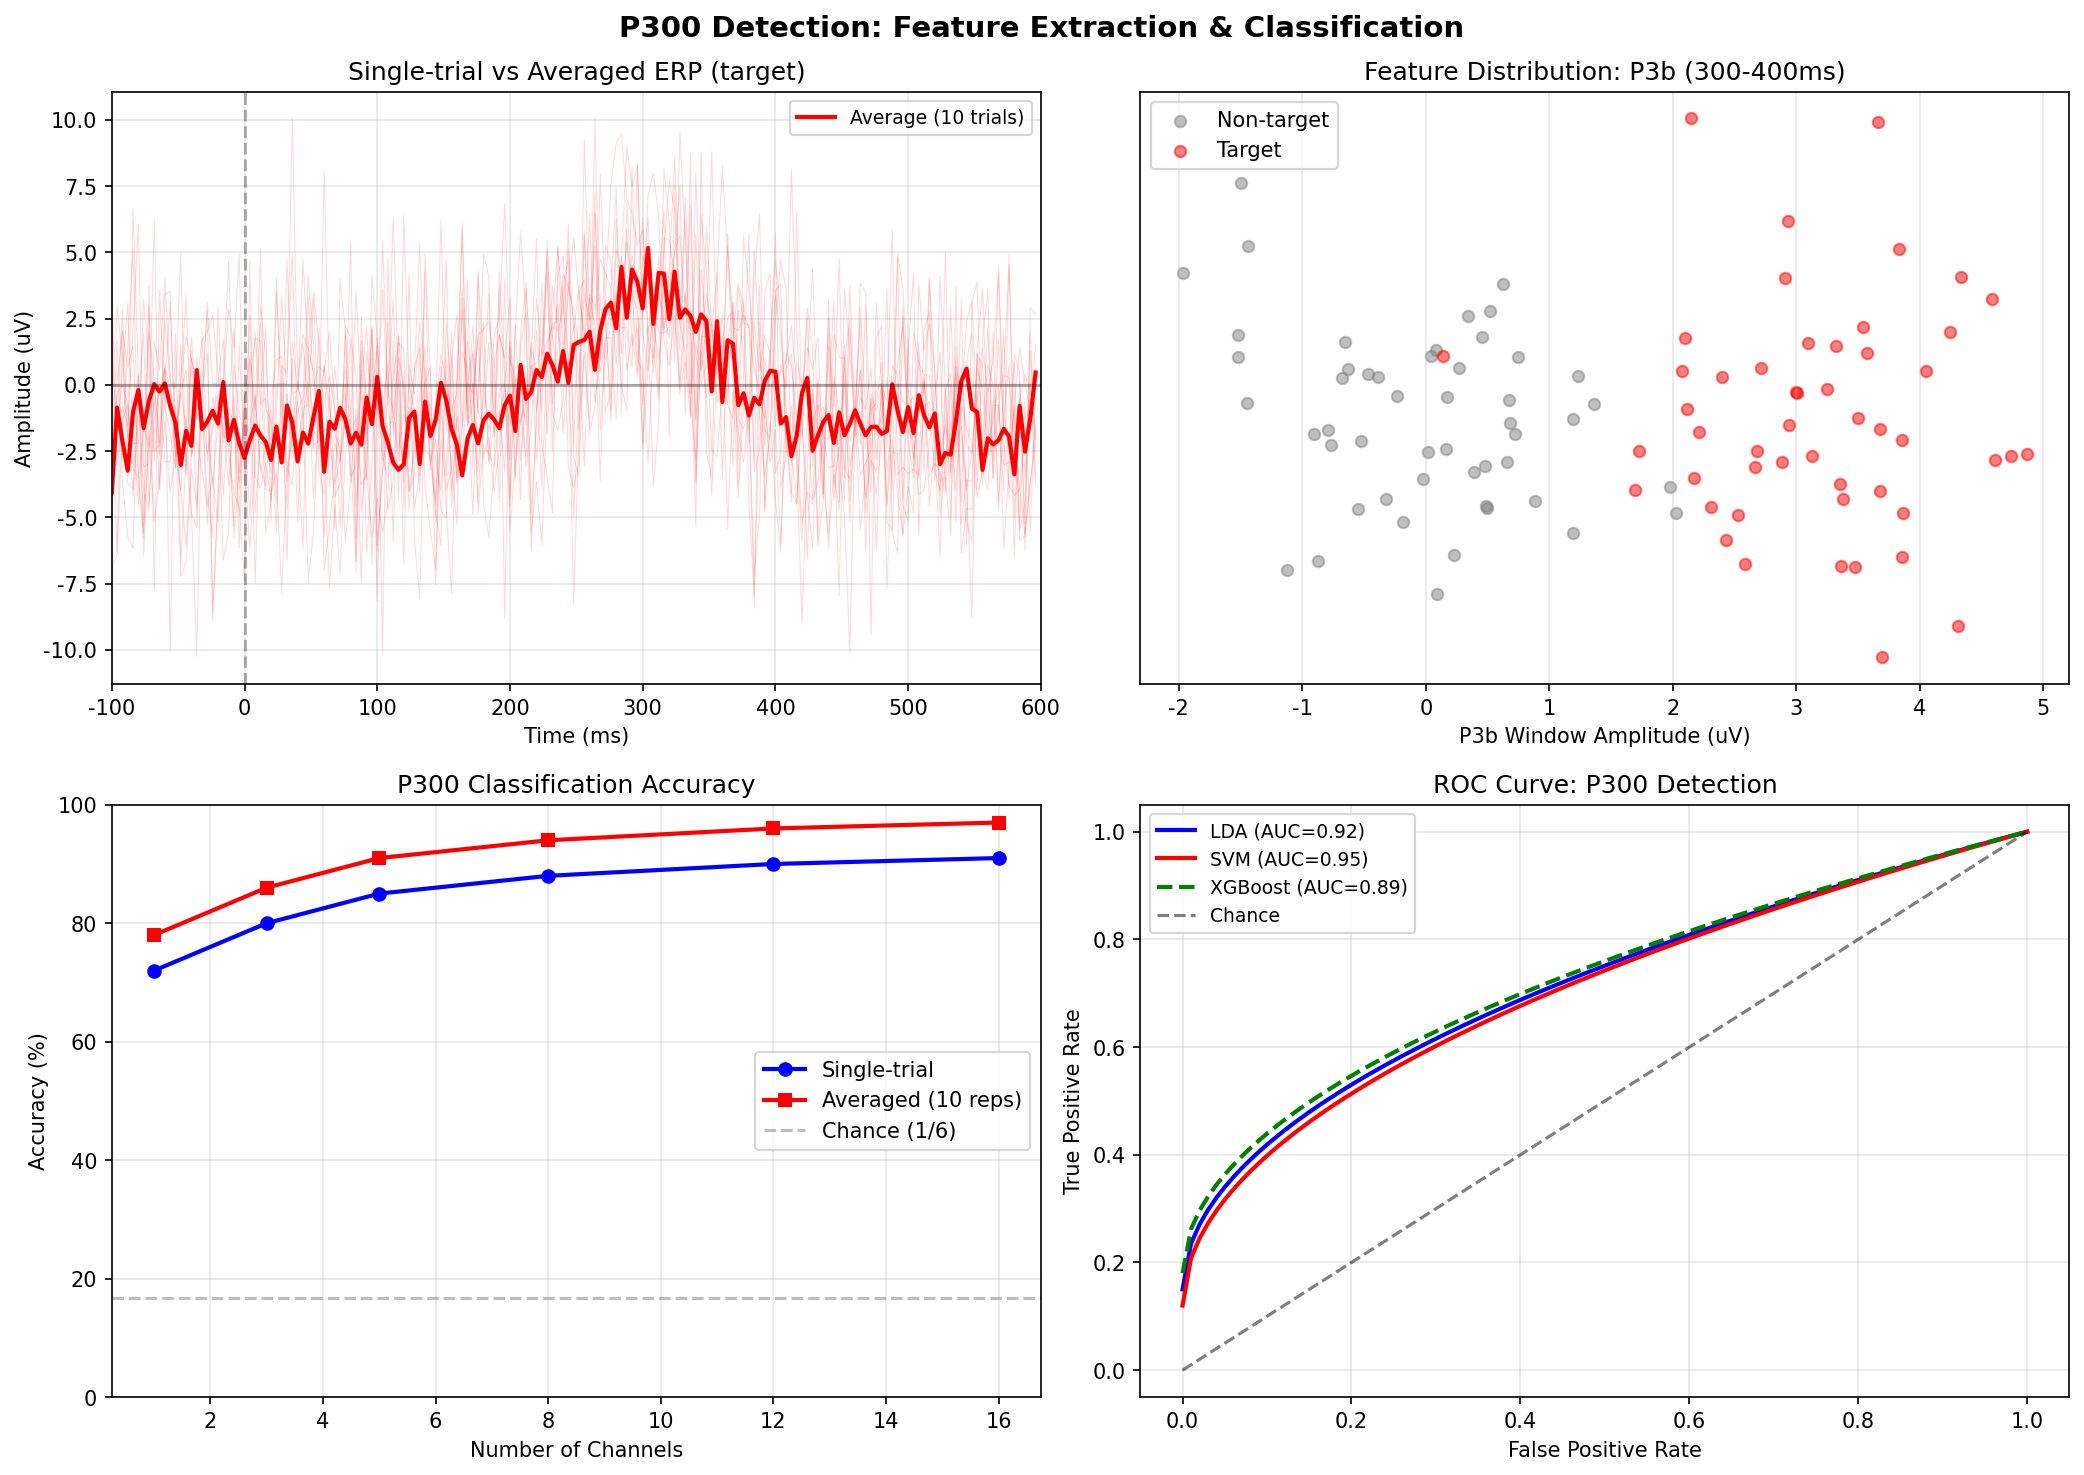
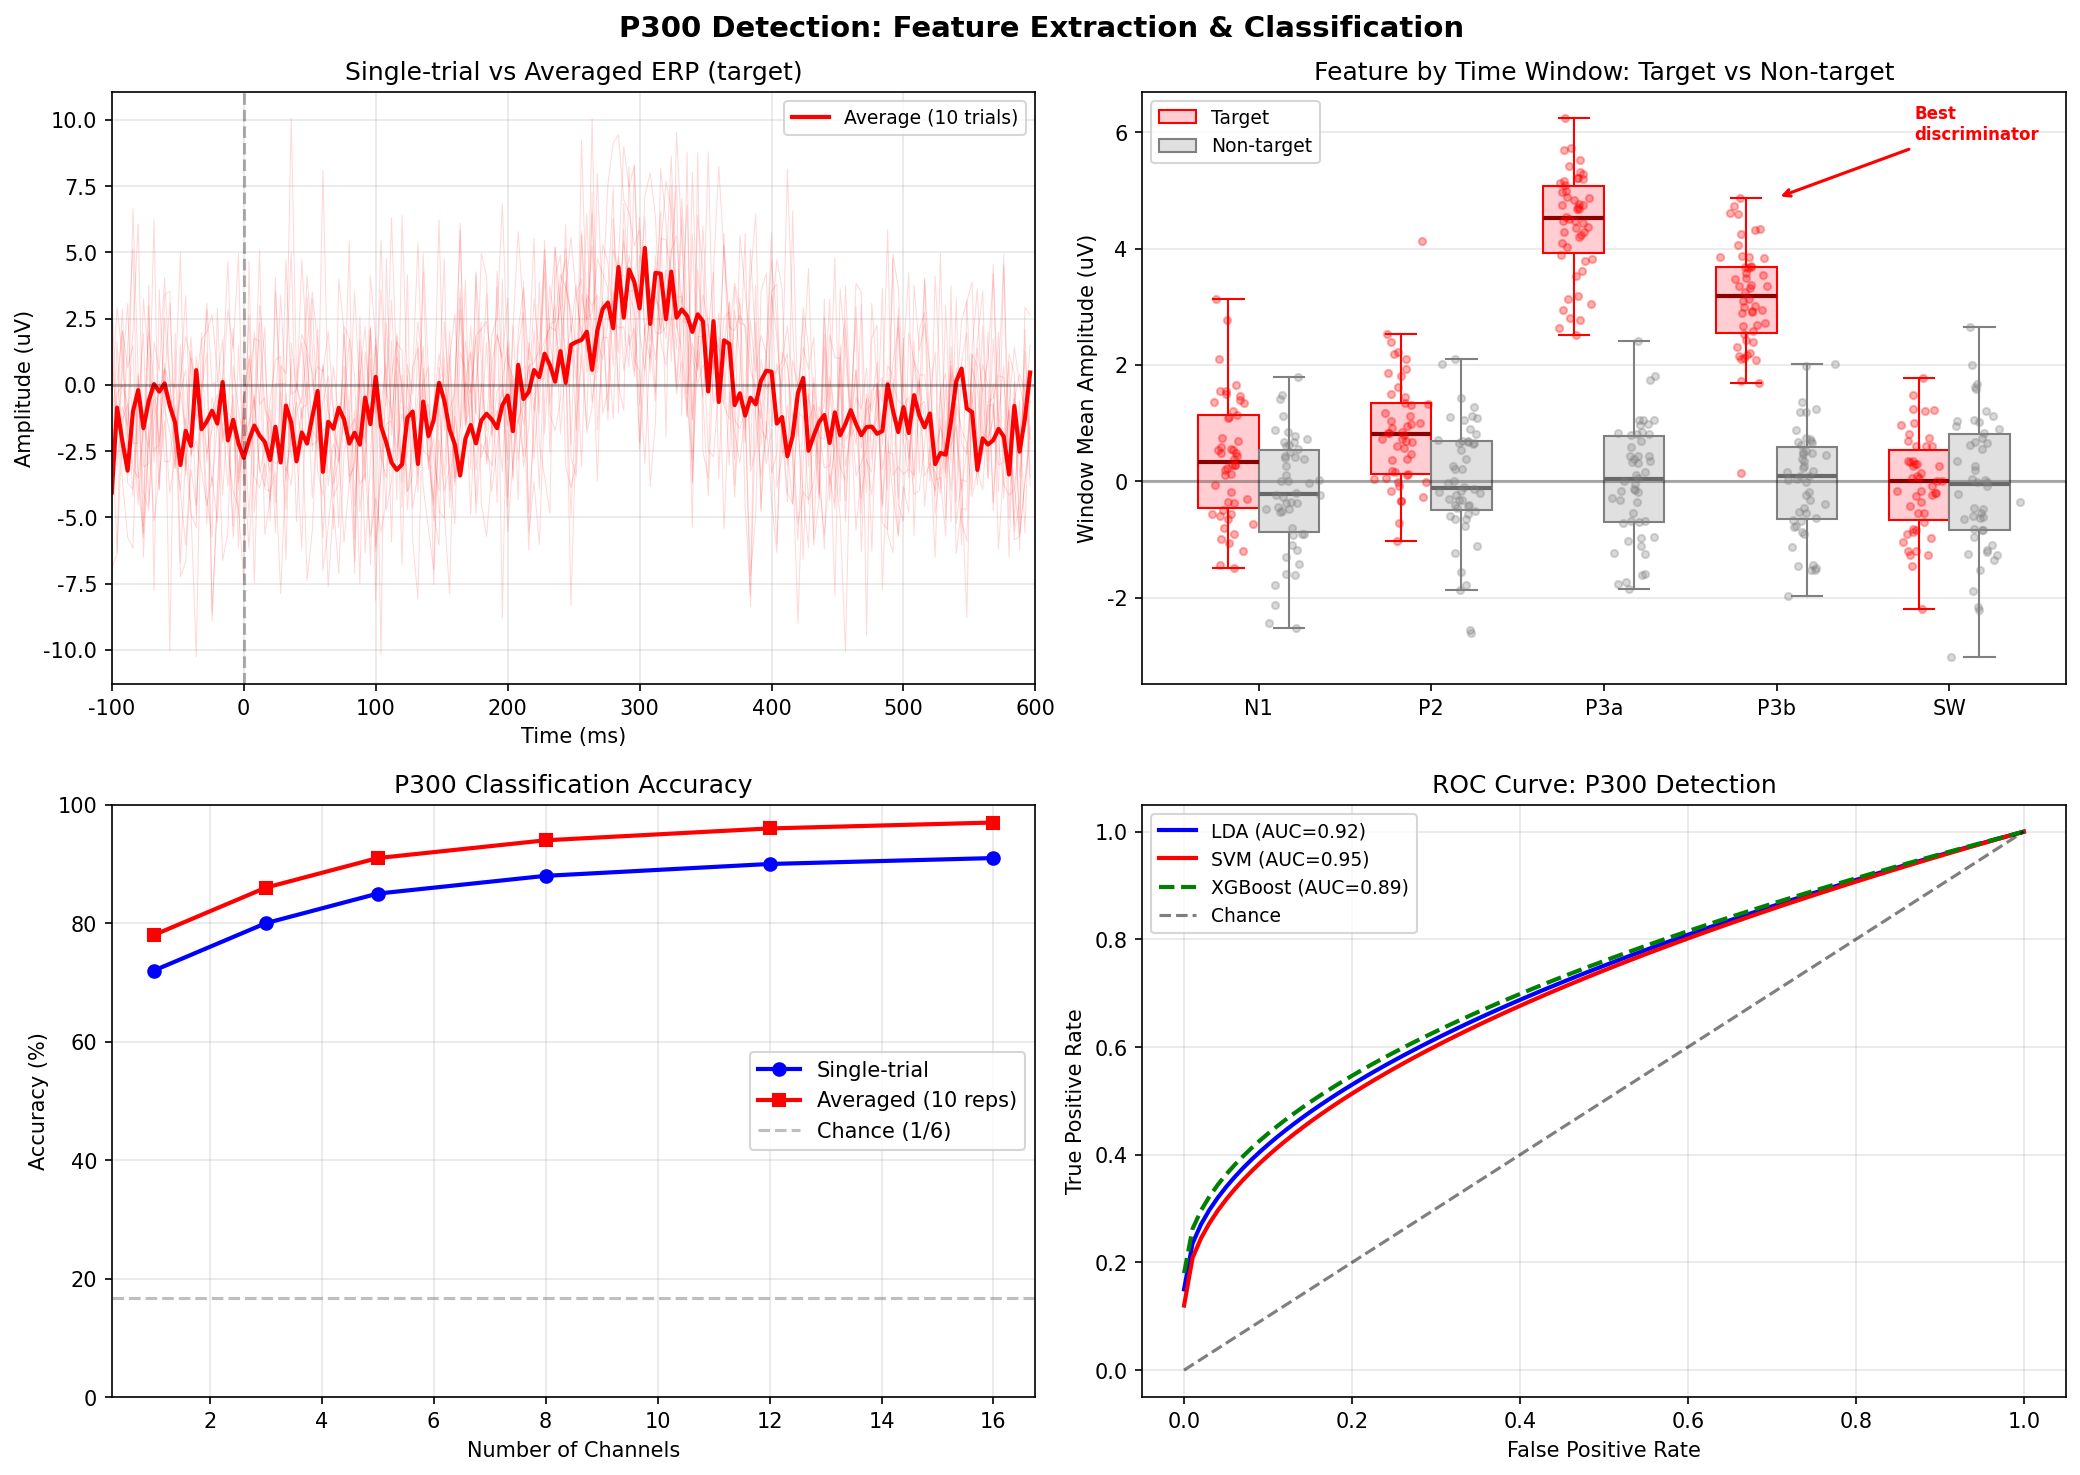
fix(day14): 4b subplot - scatter strip plot → grouped boxplot for feature distribution
The original 4b used a scatter plot where X-axis was amplitude but Y-axis was
random jitter (no physical meaning), making target vs non-target look similar
in the Y direction. Replaced with grouped boxplot showing all 5 time windows,
making P3b discriminability visually clear.

diff --git a/tracks/brain-computer-interface/projects/signal-processor/exercises/day14_p300.py b/tracks/brain-computer-interface/projects/signal-processor/exercises/day14_p300.py
@@ -349,7 +349,7 @@ ax1.legend(fontsize=9)
 ax1.set_xlim(-100, 600)
 ax1.grid(True, alpha=0.3)
 
-# 4b: Feature extraction — time window amplitudes
+# 4b: Feature extraction — all time window amplitudes (grouped boxplot)
 ax2 = axes[0, 1]
 
 # Define time windows for feature extraction
@@ -382,17 +382,57 @@ for _ in range(n_trials):
 features_target = np.array(features_target)
 features_nontarget = np.array(features_nontarget)
 
-# Plot P3b window feature
-p3b_idx = 3  # P3b window
-ax2.scatter(features_nontarget[:, p3b_idx], np.random.randn(n_trials) * 0.3,
-           c='gray', alpha=0.5, s=30, label='Non-target')
-ax2.scatter(features_target[:, p3b_idx], np.random.randn(n_trials) * 0.3,
-           c='red', alpha=0.5, s=30, label='Target')
-ax2.set_xlabel('P3b Window Amplitude (uV)')
-ax2.set_title(f'Feature Distribution: {windows[p3b_idx][0]}')
-ax2.legend()
-ax2.set_yticks([])
-ax2.grid(True, alpha=0.3)
+p3b_idx = 3  # P3b window index
+
+window_labels = [name.split(' ')[0] for name, _, _ in windows]  # N1, P2, P3a, P3b, SW
+x_pos = np.arange(len(windows))
+width = 0.35
+
+# Boxplot for each window: target vs non-target
+bp_target = ax2.boxplot([features_target[:, i] for i in range(len(windows))],
+                        positions=x_pos - width/2, widths=width,
+                        patch_artist=True, showfliers=False,
+                        medianprops=dict(color='darkred', linewidth=2),
+                        whiskerprops=dict(color='red'),
+                        capprops=dict(color='red'))
+bp_nontarget = ax2.boxplot([features_nontarget[:, i] for i in range(len(windows))],
+                           positions=x_pos + width/2, widths=width,
+                           patch_artist=True, showfliers=False,
+                           medianprops=dict(color='dimgray', linewidth=2),
+                           whiskerprops=dict(color='gray'),
+                           capprops=dict(color='gray'))
+
+for box in bp_target['boxes']:
+    box.set_facecolor('#FFCDD2')
+    box.set_edgecolor('red')
+for box in bp_nontarget['boxes']:
+    box.set_facecolor('#E0E0E0')
+    box.set_edgecolor('gray')
+
+# Overlay individual points with jitter
+for i in range(len(windows)):
+    jitter_t = np.random.randn(n_trials) * 0.06
+    jitter_nt = np.random.randn(n_trials) * 0.06
+    ax2.scatter(x_pos[i] - width/2 + jitter_t, features_target[:, i],
+               c='red', alpha=0.3, s=12, zorder=5)
+    ax2.scatter(x_pos[i] + width/2 + jitter_nt, features_nontarget[:, i],
+               c='gray', alpha=0.3, s=12, zorder=5)
+
+ax2.set_xticks(x_pos)
+ax2.set_xticklabels(window_labels)
+ax2.set_ylabel('Window Mean Amplitude (uV)')
+ax2.set_title('Feature by Time Window: Target vs Non-target')
+ax2.legend([bp_target['boxes'][0], bp_nontarget['boxes'][0]],
+           ['Target', 'Non-target'], fontsize=9)
+ax2.axhline(0, color='k', linestyle='-', alpha=0.3)
+ax2.grid(True, alpha=0.3, axis='y')
+
+# Annotate the discriminative P3b window
+ax2.annotate('Best\ndiscriminator',
+            xy=(x_pos[p3b_idx], features_target[:, p3b_idx].max()),
+            xytext=(x_pos[p3b_idx] + 0.8, features_target[:, p3b_idx].max() + 1.0),
+            fontsize=8, color='red', fontweight='bold',
+            arrowprops=dict(arrowstyle='->', color='red', lw=1.5))
 
 # 4c: Stepwise LDA classification
 ax3 = axes[1, 0]
